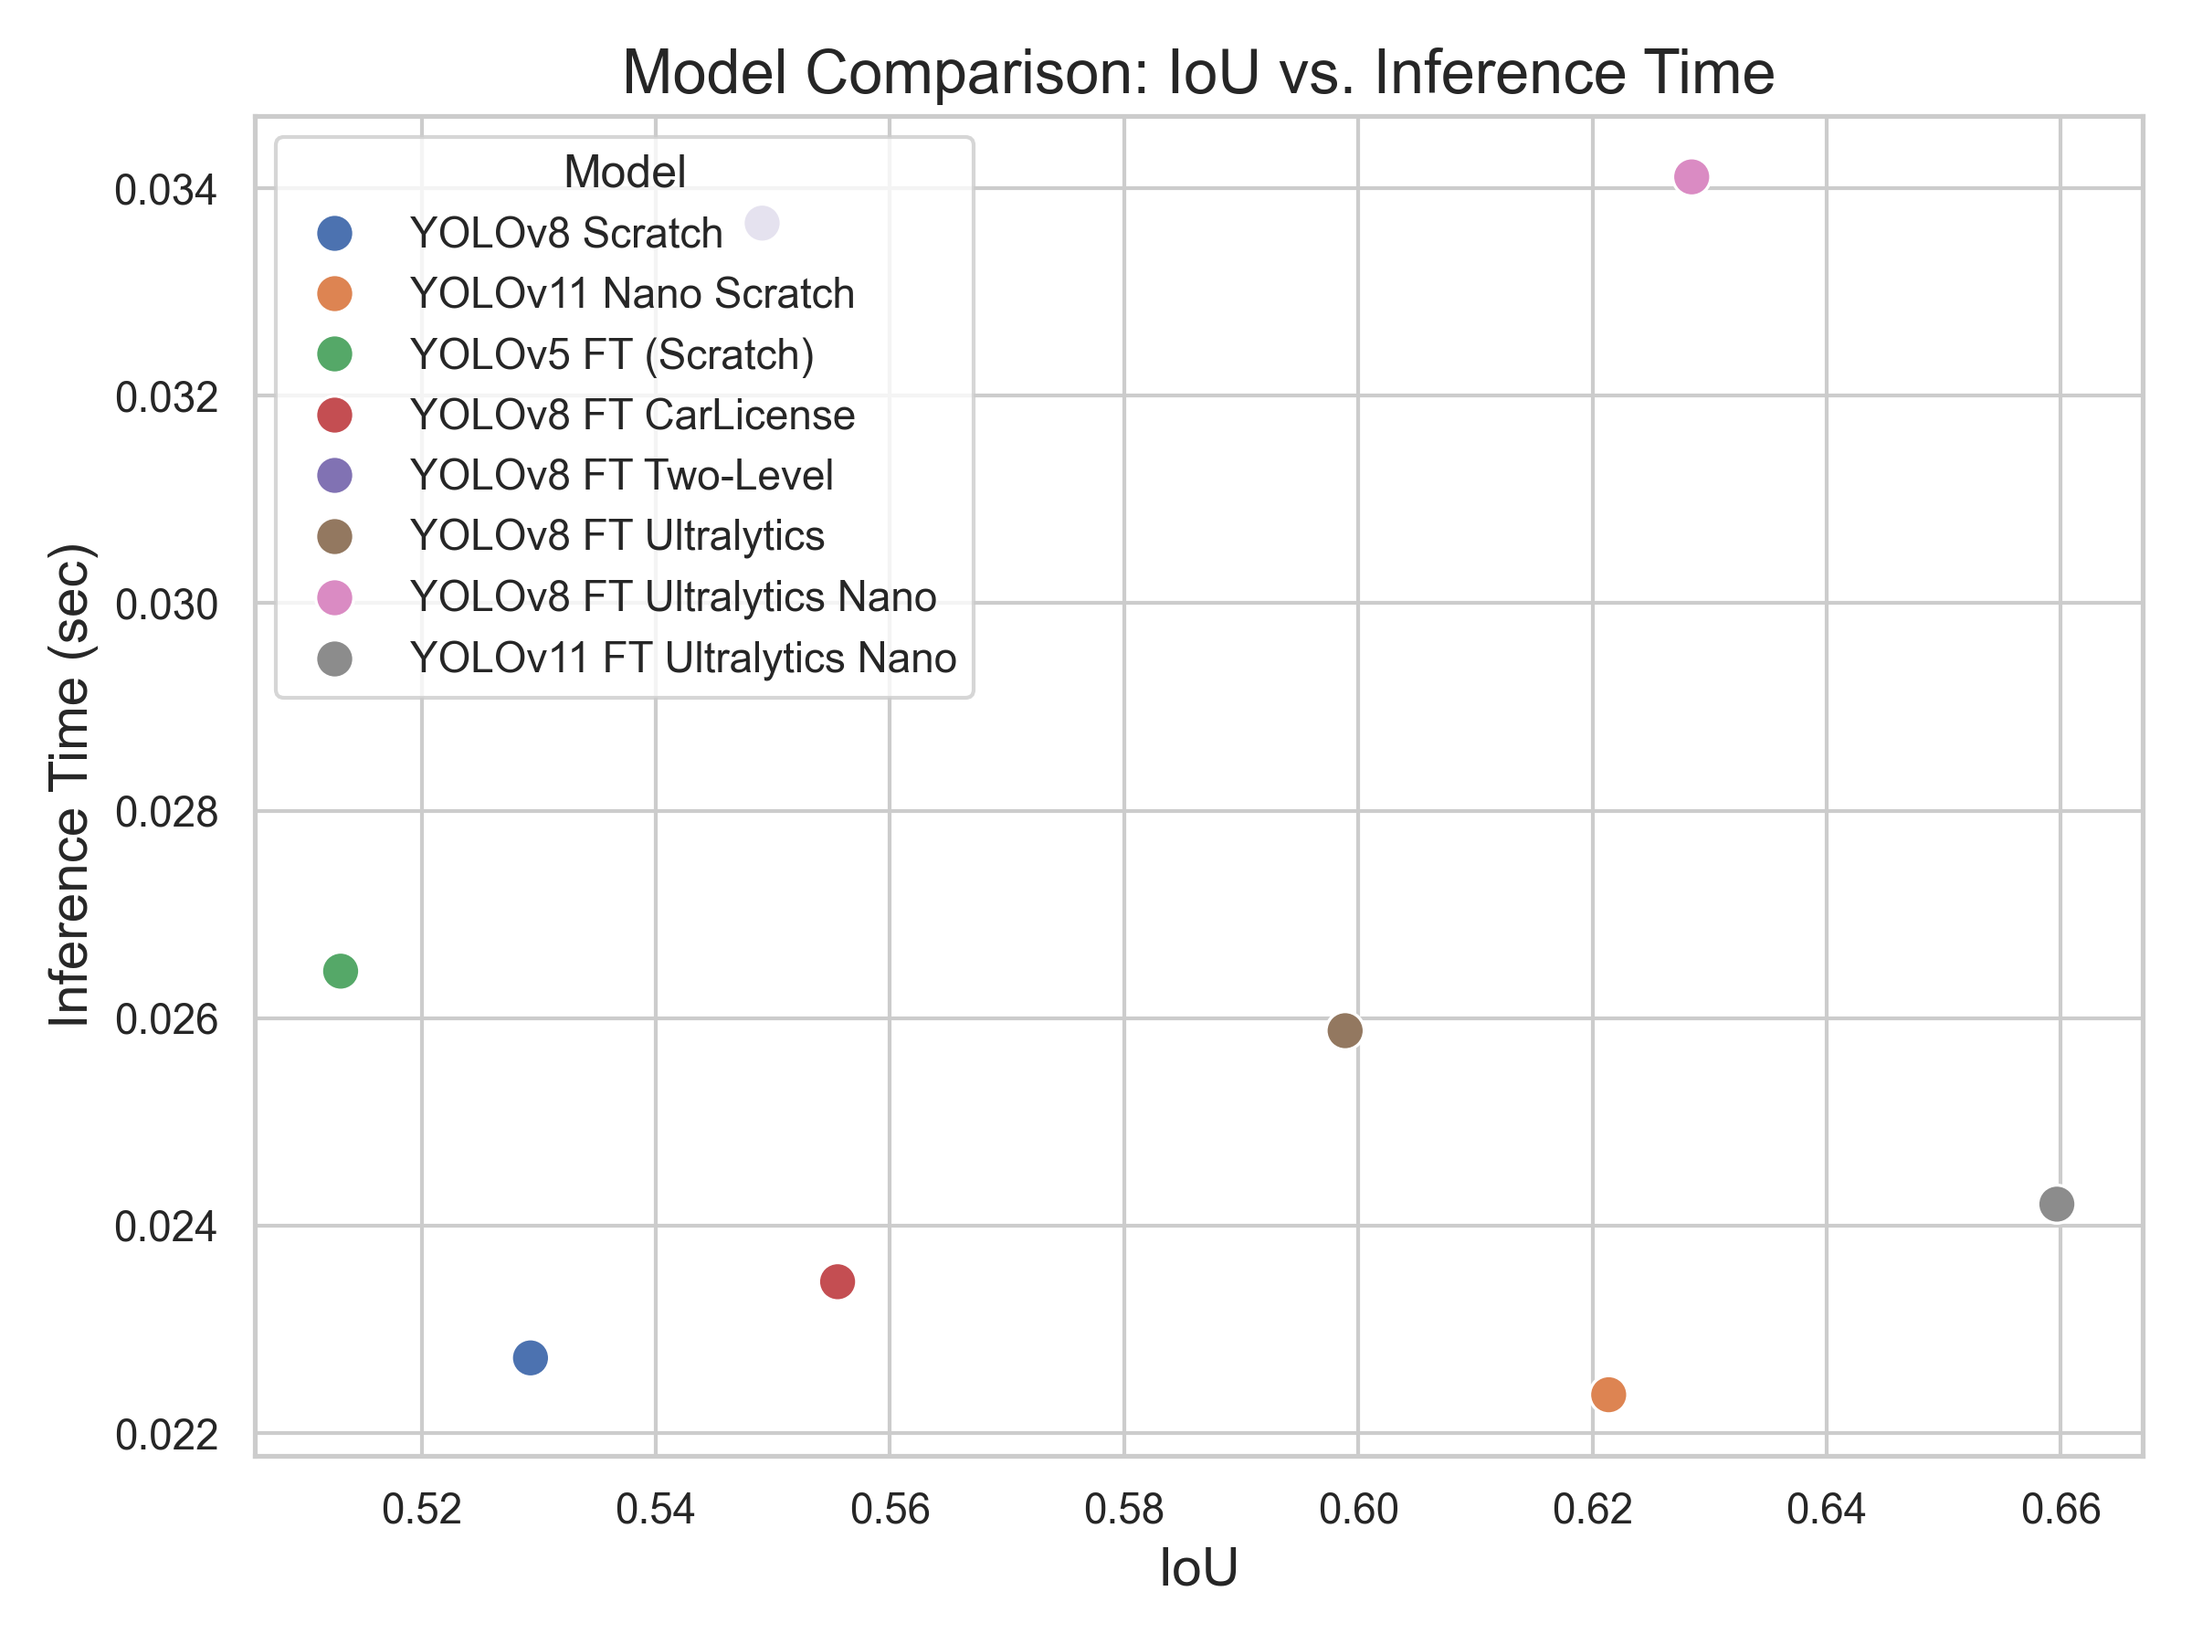
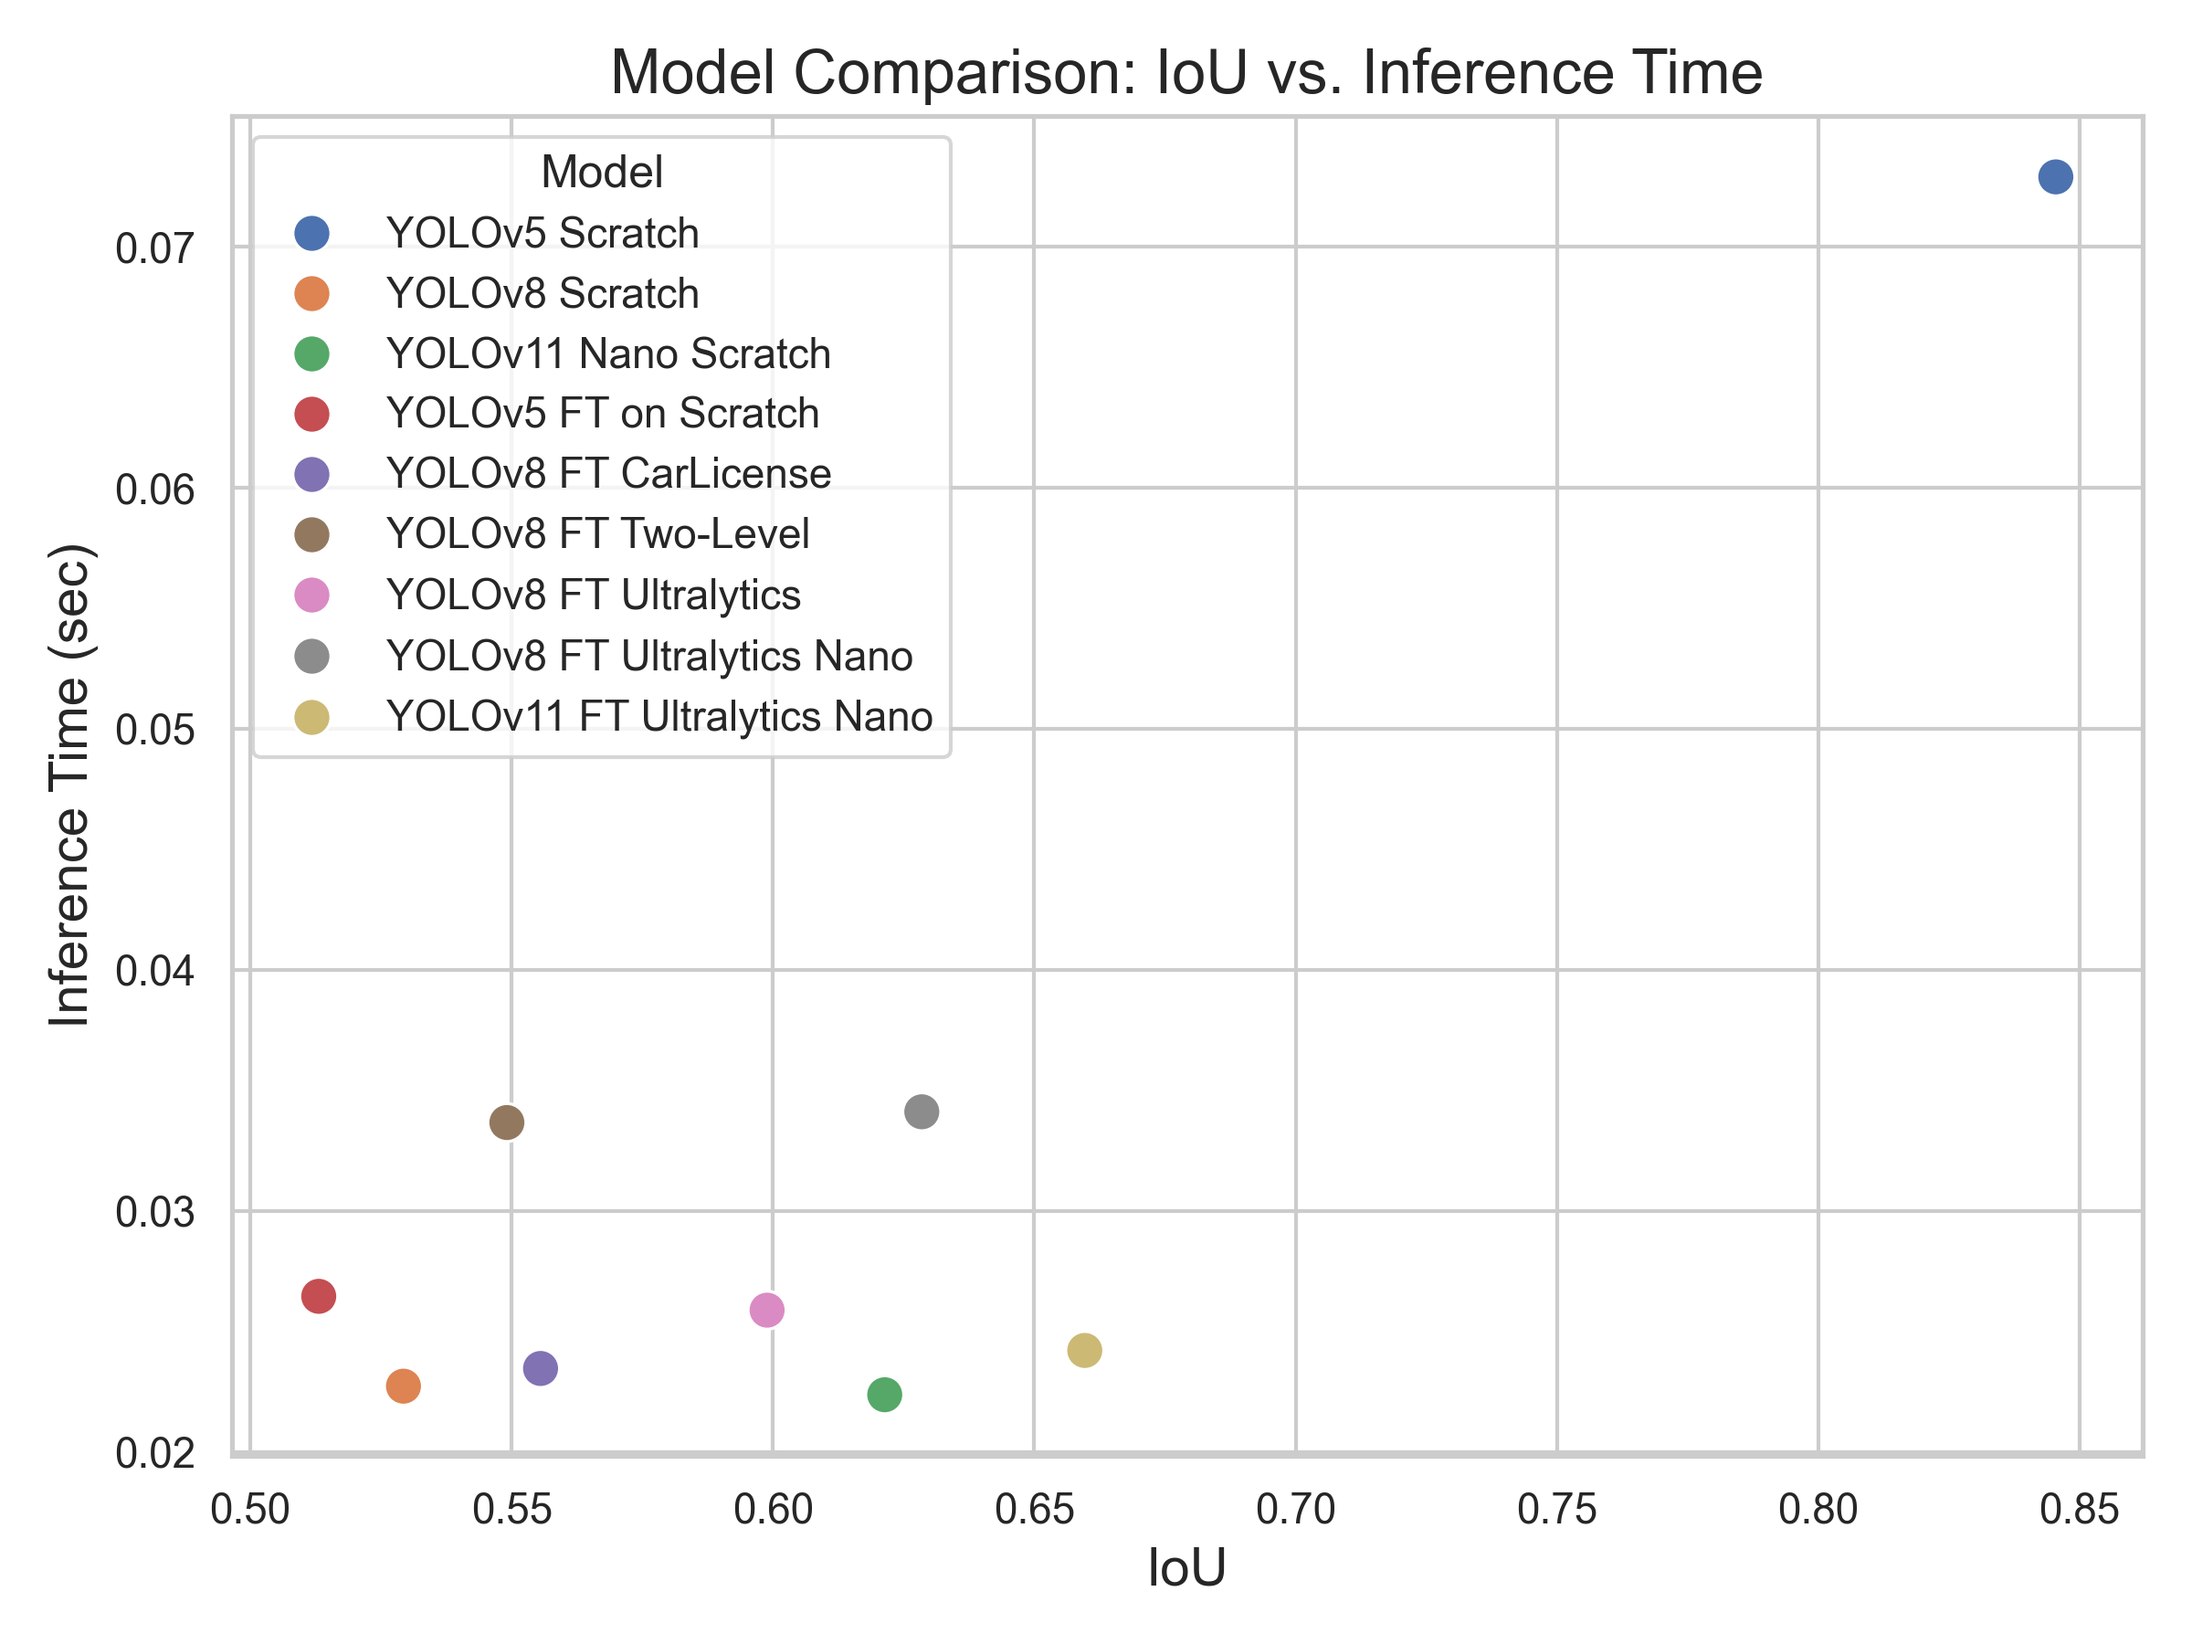
IoU-Inference Comparison

diff --git a/result_visualization/boundary_box/IoU_vs_Time_8Models.py b/result_visualization/boundary_box/IoU_vs_Time_8Models.py
@@ -5,6 +5,10 @@ import matplotlib.pyplot as plt
 
 csv_files = [
     {
+        "path": r"F:\FAU\Thesis\HDMIBabelfishV2\experiments\transfer_learning\YOLOv5\Source\Scratch_model\evaluation_results.csv",
+        "model": "YOLOv5 Scratch"
+    },
+    {
         "path": r"F:\FAU\Thesis\HDMIBabelfishV2\experiments\scratch\YOLOv8\evaluation_results.csv",
         "model": "YOLOv8 Scratch"
     },
@@ -12,9 +16,10 @@ csv_files = [
         "path": r"F:\FAU\Thesis\HDMIBabelfishV2\experiments\scratch\YOLOv11_nano\evaluation_results.csv",
         "model": "YOLOv11 Nano Scratch"
     },
+    
     {
         "path": r"F:\FAU\Thesis\HDMIBabelfishV2\experiments\transfer_learning\YOLOv5\Target\FT_model_Scratch\evaluation_results.csv",
-        "model": "YOLOv5 FT (Scratch)"
+        "model": "YOLOv5 FT on Scratch"
     },
     {
         "path": r"F:\FAU\Thesis\HDMIBabelfishV2\experiments\transfer_learning\YOLOv8\Target\FT_model_CarLicense\evaluation_results.csv",
